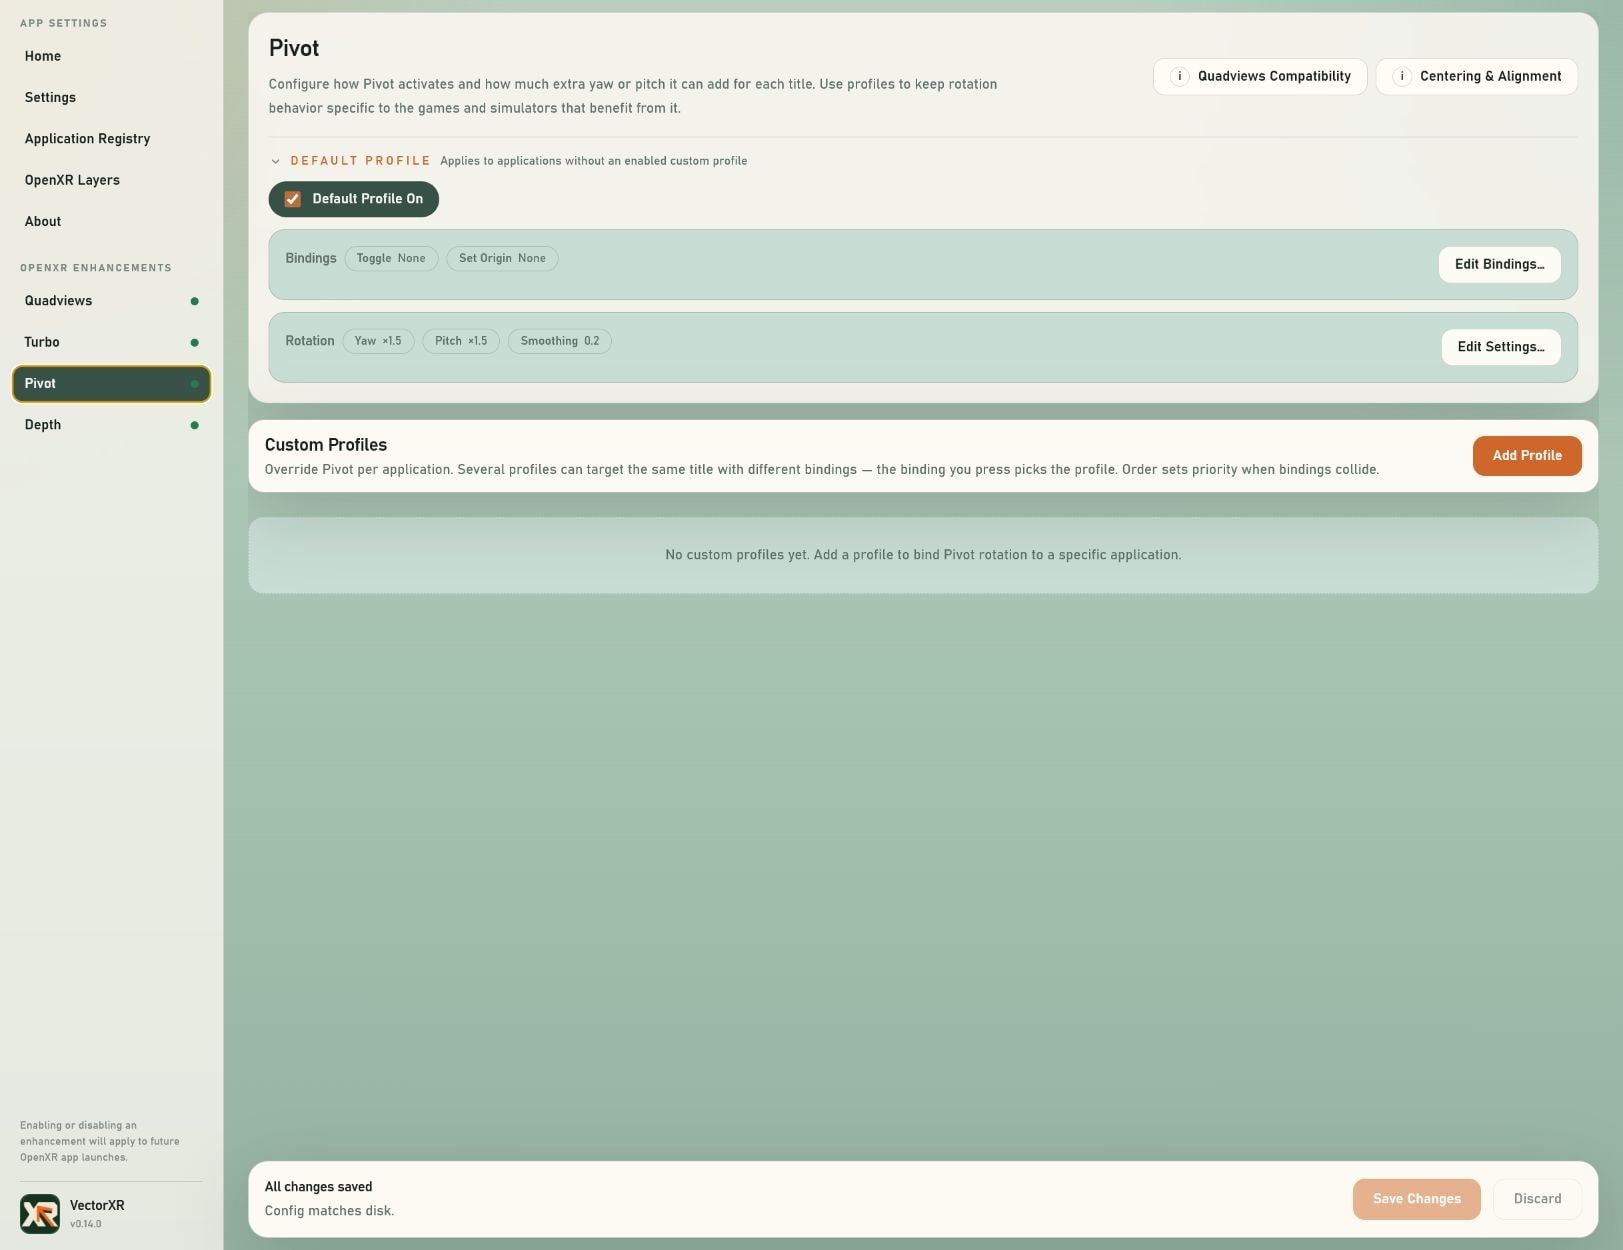
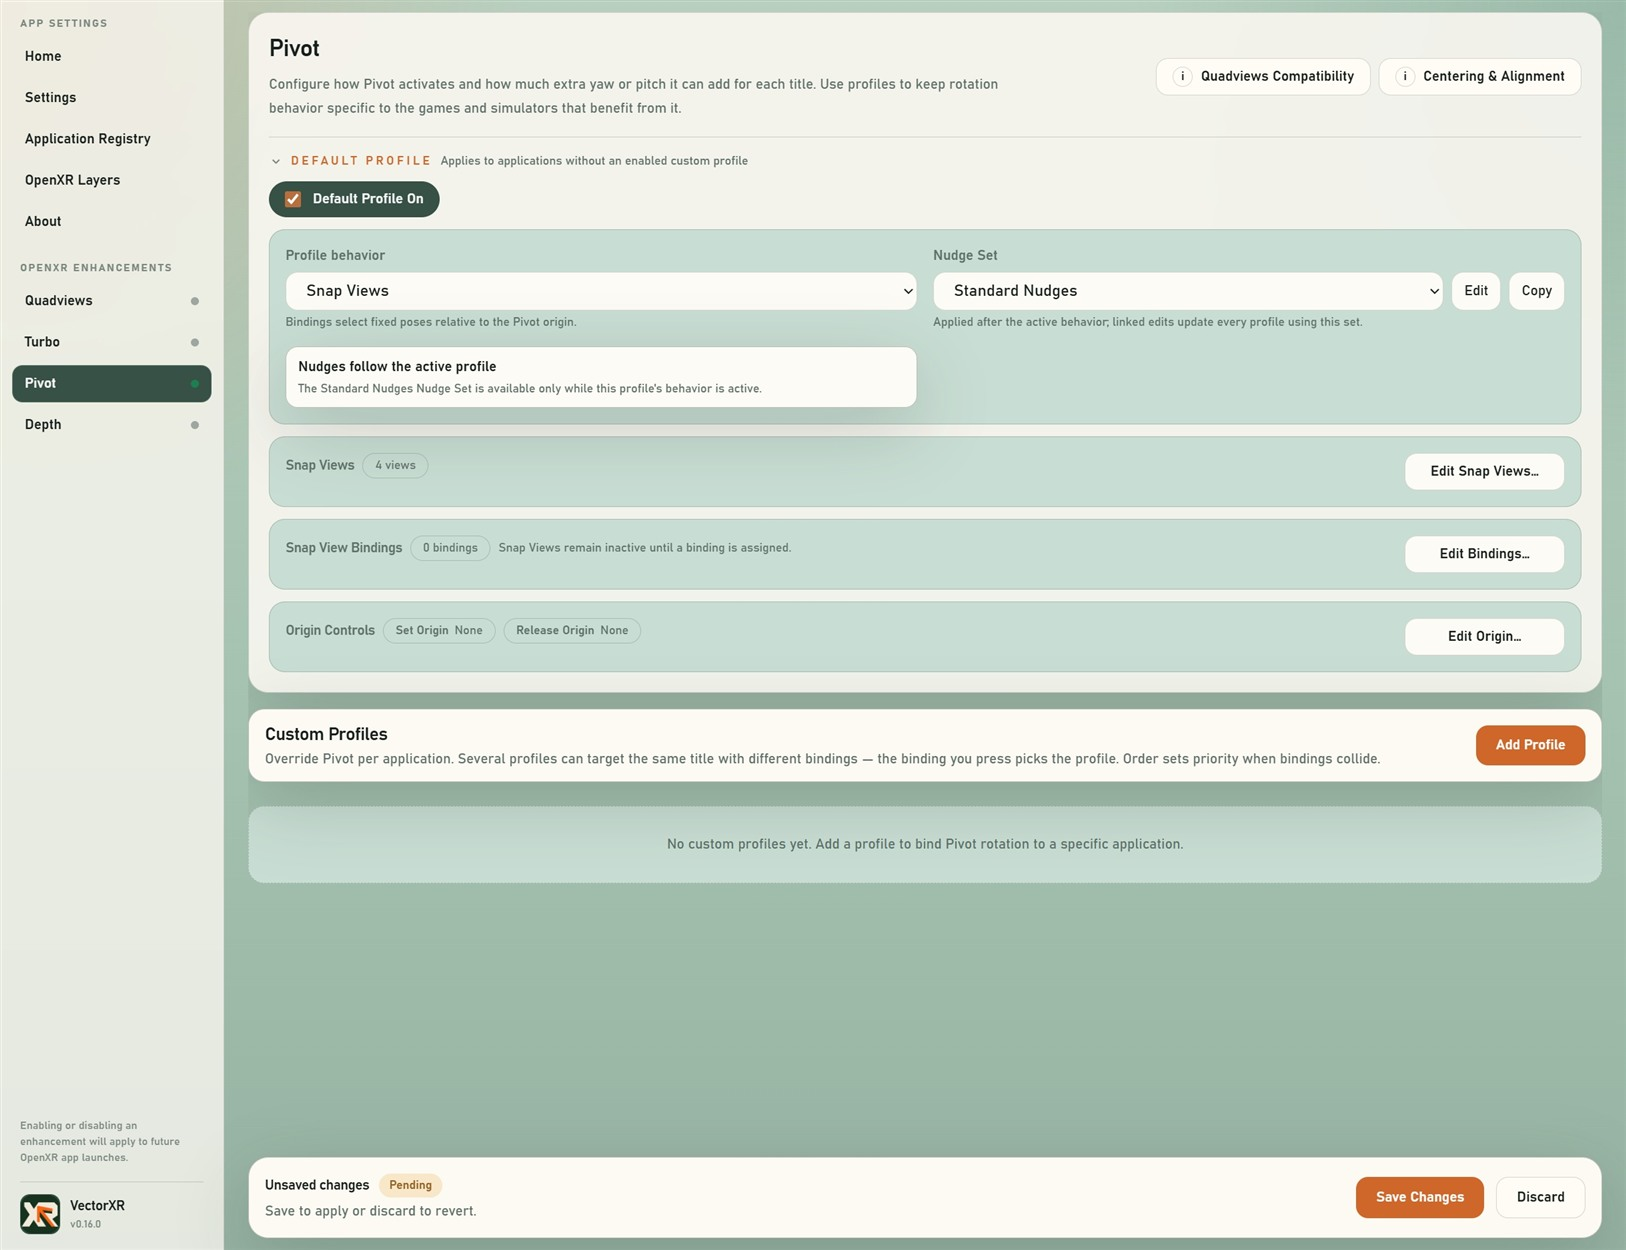
v16 documentation

diff --git a/docs/usage.md b/docs/usage.md
@@ -128,27 +128,20 @@ Depth controls perceived world scale; Convergence places the zero-parallax depth
 Pivot enhances head rotation for seated and flight-sim VR, letting you see further to the side or
 up/down than your physical neck allows.
 
-- In **Activation**, choose an **Activation Mode**. *Toggle* and *hold* require an
-  activation **Binding** — a keyboard chord or a detected input device (joystick / HOTAS).
-  *Always on* engages Pivot automatically without a binding. If you assign one, pressing it
-  suspends and resumes automatic engagement.
+- Choose a **Profile behavior** for each enabled profile. **Enhanced Motion** amplifies natural
+  head rotation with Continuous or Stepped response tuning. **Snap Views** uses bindings to select
+  named, fixed poses relative to the captured Pivot origin.
+- For **Enhanced Motion**, open **Activation** and choose an activation mode. *Toggle* and *Hold*
+  require a keyboard, joystick, or HOTAS binding. *Always On* engages automatically; an optional
+  activation binding suspends and resumes that automatic engagement.
 - Every Pivot action accepts multiple bindings, so keyboard chords and device inputs can be mixed.
   **Origin Controls** has its own category: **Set Origin** captures the current head pose as the
   neutral seated origin; assigning it to the same input as the simulator's recenter action keeps
   both origins aligned. **Release Origin** clears that captured origin. Set Origin and Release
   Origin can each have multiple bindings too.
-- **View Controls > Rotation Nudges** adds a fixed yaw or pitch amount each time its binding is
-  pressed. Left/right and up/down accumulate and can undo each other; **Center Manual Offset**
-  returns both axes to zero. Nudge steps have a shared transition time (zero is instant), combine
-  with normal Motion Assist, and are guarded to ±180° yaw and ±85° pitch.
-- **View Controls > Quick Views** creates any number of named origin-relative views. Each view has
-  yaw, pitch, transition time, optional right/up/forward position offsets, and one or more
-  independently configured **Hold** or **Toggle** bindings. The four-view preset creates Look Left,
-  Look Right, High 12, and Check Six as a starting point. A 180° view also lets you choose whether
-  its transition travels left or right.
-- A Quick View temporarily overrides Motion Assist and accumulated nudges while active, but keeps
-  natural HMD tracking 1:1 around the target. Leaving it smoothly returns to the underlying
-  Motion Assist/nudge state. View Controls work even when Motion Assist itself is not activated.
+- Select a **Nudge Set** to layer reusable fixed-step yaw and pitch adjustments after the profile's
+  main behavior. A linked set can be shared by several profiles, while **Copy** creates an
+  independent starting point for different bindings or step sizes.
 - Choose **Continuous** response for multiplier-based motion, then tune **Yaw** and **Pitch**
   independently with rotation **Multiplier**, **Deadzone**, and **Max Extra** degrees. A shared
   **Smoothing** value softens continuous motion.
@@ -161,6 +154,70 @@ up/down than your physical neck allows.
 - The **Activation Ramp** (default 0.35s) eases Pivot in and out when it engages or disengages
   rather than snapping the view.
 
+#### Setting up Snap Views
+
+![Pivot Snap Views list with the four-view preset](screenshots/pivot-snap-views.jpg)
+
+1. Enable the default Pivot profile, or add and enable a custom application profile.
+2. Set **Profile behavior** to **Snap Views**, then choose **Edit Snap Views**.
+3. Select **Create 4-view preset** for Look Left, Look Right, High 12, and Check Six, or use
+   **Add Quick View** to build your own list.
+4. Edit each view to set yaw, pitch, transition time, and optional right/left, up/down, and
+   forward/back position offsets. Negative yaw turns left; positive yaw turns right.
+5. Add at least one binding to every view you want to use. **Hold** returns when released;
+   **Toggle** stays active until pressed again or another Snap View takes over.
+6. Configure **Set Origin** under Origin Controls and align it with the simulator's recenter action.
+   Snap View poses and position offsets are measured from that captured origin.
+7. Save the configuration, enter VR, set the origin, and test the views from a comfortable seated
+   posture. Reorder the list when binding priority or presentation order needs to be clearer.
+
+![Editing a Pivot Snap View](screenshots/pivot-snap-view-editor.jpg)
+
+Snap Views keep natural head rotation and translation at 1:1 around the selected pose; they do not
+lock the headset. A Snap View temporarily replaces Enhanced Motion and the accumulated nudge offset.
+Leaving the view returns smoothly to the underlying state. A view with no binding is inert.
+
+#### Setting up Nudges
+
+![Editing the Standard Nudges set](screenshots/pivot-nudges.jpg)
+
+1. Select **Standard Nudges** in the profile's **Nudge Set** menu, or choose **Copy** when the
+   profile needs its own steps or bindings.
+2. Choose **Edit**, set the yaw step, pitch step, and transition duration, then add bindings for
+   Yaw Left, Yaw Right, Pitch Up, Pitch Down, and Center Nudge Offset.
+3. Leave **Allow while Pivot is inactive** off when nudges should follow the linked profile. Turn it
+   on when those bindings should maintain a global view offset even with no linked profile engaged.
+4. Save and test. Directional presses accumulate and oppose one another; **Center Nudge Offset**
+   clears the accumulated yaw and pitch. Offsets are limited to ±180° yaw and ±85° pitch.
+
+Editing a shared Nudge Set updates every profile linked to it. Nudges are applied after Enhanced
+Motion, but a selected Snap View temporarily takes priority over the accumulated offset.
+
+### Pivot FAQ
+
+**Why does my Snap View do nothing?**
+
+Enable the containing profile, give the view at least one binding, save, and confirm that the
+profile targets the running application. Capture an origin before relying on position offsets.
+
+**Should I use Hold or Toggle?**
+
+Use **Hold** for a temporary glance that returns as soon as the control is released. Use **Toggle**
+when you want to stay in the view hands-free; press it again or select another Snap View to leave.
+
+**Does a Snap View lock my head?**
+
+No. It moves the origin-relative target while preserving 1:1 natural head motion around it.
+
+**Why do nudges stop when Pivot disengages?**
+
+That is the default safety behavior. Edit the Nudge Set and enable **Allow while Pivot is inactive**
+if its bindings should adjust and retain the global offset without an active linked profile.
+
+**Should profiles share a Nudge Set?**
+
+Share one when the same step sizes and bindings should apply everywhere. Use **Copy** before editing
+when a profile needs independent controls; linked edits intentionally affect every user of a set.
 Pivot and Quadviews are built to work together: because VectorXR computes both in one layer, the
 foveated focus region stays locked to your gaze even while Pivot rotates your view. This
 combination is VectorXR's signature capability — see [Why VectorXR](../README.md#why-vectorxr).
@@ -216,9 +273,18 @@ safe, but the running game keeps its launch-time state until it exits.
 
 #### Diagnostic visualization
 
-Assign the **Visualization toggle** in the Quadviews tab, then press it in-game to show or hide
-the calibration view. The visualization starts hidden each OpenXR session and labels the rendered
-regions and tracking pipeline with color:
+![Quadviews diagnostic overlay guide](screenshots/quadviews-overlay-guide.jpg)
+
+The **In-headset diagnostics** card provides two ways to control the calibration view:
+
+- Assign an **In-headset shortcut** and press it in-game to toggle the visualization.
+- While a synthesized Quadviews session is active, use **Show visualization** or **Hide
+  visualization** in the VectorXR app for live control. **No active synthesized Quadviews session**
+  means there is not currently a compatible session for the app to control.
+
+The visualization starts hidden each OpenXR session. Select **How to read the overlay** for an
+interactive field guide that maps the picture and common symptoms to the relevant settings. The
+in-headset view labels the rendered regions and tracking pipeline with color:
 
 - Blue tint: peripheral image; amber tint: blended transition band.
 - Green focus outline: focus window with tracking available; red: eye tracking unavailable and
@@ -258,6 +324,11 @@ Confirm that the game has Quad Views enabled, the correct VectorXR profile match
 and only one provider is active. Check whether the control is marked **Restart required**.
 API-layer, runtime, and in-game VR changes also require a full game restart.
 
+**Why is Show visualization unavailable?**
+
+Live app control requires an active VectorXR synthesized D3D11 Quadviews session. Start a compatible
+quad-view application with the VectorXR profile enabled. Native Varjo composition does not expose
+this visualization; the saved in-headset shortcut also begins each new session with the overlay off.
 **What else should I disable while troubleshooting?**
 
 Avoid overlapping features: DCS **Force IPD Distance** can mask Depth, another tool's Turbo mode

diff --git a/release/notes/v0.16.0.md b/release/notes/v0.16.0.md
@@ -1,0 +1,26 @@
+## Snap Views, Nudges, and Quadviews Diagnostics
+
+Adds accessible Pivot view modes and reusable controls, a guided Quadviews diagnostic overlay, faster binding workflows, polished configuration pages, and safer upgrades.
+
+### Changes
+
+- <strong>Pivot Snap Views</strong>
+  - Adds a profile-level choice between Enhanced Motion and Snap Views, so each application can use natural motion amplification or binding-selected fixed poses.
+  - Introduces unlimited named Snap Views with yaw, pitch, smooth transitions, optional origin-relative position offsets, and independent Hold or Toggle bindings.
+  - Includes a four-view preset for Look Left, Look Right, High 12, and Check Six while preserving 1:1 natural head tracking around every selected pose.
+- <strong>Reusable Nudge Sets</strong>
+  - Adds reusable yaw and pitch Nudge Sets with configurable step sizes, transition time, directional bindings, and a Center Nudge Offset action.
+  - Lets profiles share one Nudge Set or copy it for independent controls, with an explicit option to keep nudges available while Pivot is inactive.
+  - Hardens Pivot pose caching and view-return transitions to prevent bounce and keep Snap Views, nudges, and Enhanced Motion composed predictably.
+- <strong>Quadviews diagnostic overlay</strong>
+  - Adds an in-headset visualization for peripheral and focus regions, blend boundaries, head center, configured offset, raw gaze, filtered gaze, and tracking availability.
+  - Adds live Show or Hide control from the Quadviews page during an active synthesized D3D11 session, plus an optional in-headset toggle binding.
+  - Includes an interactive overlay guide that maps visible symptoms to focus, tracking, smoothing, deadzone, and transition settings.
+- <strong>Binding and interface improvements</strong>
+  - Makes joystick discovery less disruptive by sharing scans, pausing discovery during capture, and listening only to the selected device.
+  - Adds manual button and HAT-direction assignment alongside targeted input capture.
+  - Refines Pivot profile cards, subpages, summaries, controls, dropdowns, and dark-mode styling for the expanded configuration workflow.
+- <strong>Compatibility, fixes, and safer upgrades</strong>
+  - Preserves existing 0.15 and 0.15.1 profiles, bindings, module settings, and unknown configuration fields while adding the new 0.16 defaults.
+  - Creates a one-time backup of the pre-0.16 settings document before the first save or reset, so the previous configuration remains recoverable.
+  - Corrects the generated configuration schema for new Pivot and binding fields and expands migration, schema, runtime relay, and Pivot behavior coverage.

diff --git a/README.md b/README.md
@@ -43,9 +43,10 @@ Depth profiles tune world scale and the convergence plane globally or per applic
 ![VectorXR Pivot tab](docs/screenshots/pivot.jpg)
 
 Pivot profiles configure continuous or stepped yaw and pitch assistance, per-direction tuning,
-bounded step glides, activation behavior, and multiple keyboard or device bindings. Accessible
-View Controls add accumulating fixed-step yaw/pitch nudges and unlimited named Quick Views with
-Hold or Toggle behavior, smooth transitions, and optional origin-relative position offsets.
+bounded step glides, activation behavior, and multiple keyboard or device bindings. Snap Views add
+named origin-relative poses with Hold or Toggle behavior, smooth transitions, and optional position
+offsets. Reusable Nudge Sets provide accumulating fixed-step yaw/pitch controls. See the
+[Snap View and Nudge setup guide](docs/usage.md#setting-up-snap-views).
 
 ### Quadviews
 
@@ -61,6 +62,9 @@ For the recommended DCS + synthesized VectorXR setup:
 
 Controls marked **Restart required** can be saved during play, but DCS must be fully restarted for their complete effect. See the usage guide's [live-update reference and Quadviews FAQ](docs/usage.md#live-tuning-and-restarts) for details, alternative layer setups, and common setup pitfalls.
 
+The in-headset diagnostic overlay now has a live session control and an interactive guide for
+reading render zones, focus alignment, gaze filtering, and tracking availability. See
+[Diagnostic visualization](docs/usage.md#diagnostic-visualization).
 ### Turbo
 
 ![VectorXR Turbo tab](docs/screenshots/turbo.jpg)
